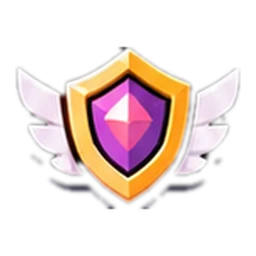
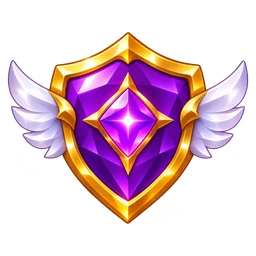
UI 그림 18장(Higgsfield): 아래 메뉴 5(연구소 플라스크·마법서)·업적 메달 4·루비 상품 5·우편 봉투 열림·패스 받침대·승리/패배 배너

diff --git a/src/scenes/MissionScene.ts b/src/scenes/MissionScene.ts
@@ -242,8 +242,15 @@ export class MissionScene extends Phaser.Scene {
       rows.sort((r1, r2) => Number(r1.pr.done) - Number(r2.pr.done) || r2.pr.cur / r2.pr.goal - r1.pr.cur / r1.pr.goal);
       for (const { a, pr } of rows) {
         this.A(plate(this, 360, y, 664, 96, { r: 20, fill: pr.done ? 0x1a1626 : undefined }));
-        this.rewardBox(84, y, { image: 'ui-ruby', emoji: '💎', amount: `${a.rubies}` }, pr.done);
+        // 업적 메달(2026-11-26 Higgsfield): 어려울수록 동 → 은 → 금 → 다이아. 못 이룬 업적은 흐리게. 보상 루비는 제목 오른쪽
+        const medal = `medal-${ACH_MEDAL[a.id] ?? 'bronze'}`;
+        if (this.textures.exists(medal)) this.A(this.add.image(84, y, medal).setDisplaySize(78, 78).setAlpha(pr.done ? 1 : 0.55));
+        else this.rewardBox(84, y, { image: 'ui-ruby', emoji: '💎', amount: `${a.rubies}` }, pr.done);
         this.A(text(this, 140, y - 22, a.text, 19, pr.done ? COLOR.ok : COLOR.text, true, true).setOrigin(0, 0.5));
+        if (this.textures.exists(medal)) {
+          this.A(this.add.image(500, y - 22, 'ui-ruby').setDisplaySize(26, 26).setAlpha(pr.done ? 0.5 : 1));
+          this.A(text(this, 518, y - 22, `${a.rubies}`, 18, pr.done ? COLOR.textDim : COLOR.gold, true, true).setOrigin(0, 0.5));
+        }
         this.A(progressBar(this, 330, y + 18, 380, 16, pr.cur / pr.goal, pr.done ? COLOR.ok : COLOR.violet, `${pr.cur.toLocaleString()} / ${pr.goal.toLocaleString()}`).root);
         // 업적 루비는 달성한 판이 끝날 때 자동 지급(기존 규칙) → 달성하면 체크, 아직이면 이동
         const b = this.keep(button(this, 616, y, 116, 60, pr.done ? '✔' : '이동', () => this.scene.start('lobby'), { kind: pr.done ? 'secondary' : 'cta', size: TYPE.caption }));
@@ -401,6 +408,8 @@ export class MissionScene extends Phaser.Scene {
 }
 
 type Tab = 'progress' | 'daily' | 'missions' | 'achievements' | 'attendance';
+/** 업적별 메달 등급(2026-11-26 AI 1차안: 첫 판 동 · 첫 엘리트·수집 은 · 1,000마리 금 · 10,000마리 다이아) */
+const ACH_MEDAL: Record<string, 'bronze' | 'silver' | 'gold' | 'diamond'> = { 'first-run': 'bronze', 'first-elite': 'silver', 'collector-3': 'silver', 'kills-1000': 'gold', 'kills-10000': 'diamond' };
 type Only = 'mission' | 'progress' | 'achievements' | 'attendance';
 const ONLY_TITLE: Record<Only, string> = { mission: '미션', progress: '진행도', achievements: '업적', attendance: '출석' };
 

diff --git a/src/ui/art.ts b/src/ui/art.ts
@@ -169,6 +169,14 @@ export const ART_FILES: Record<string, string> = {
   // 13차분(v1.2 마지막 묶음, scripts/process_art_batch13.py): 어려움 배지·최초 클리어 카드 테두리·20단계 왕관·폭죽·보스 2마리 막대 틀
   ...Object.fromEntries(['badge-hard', 'frame-hard', 'hard-clear-crown', 'fx-confetti', 'ui-boss-bar'].map((k) => [k, `hard/${k}.webp`])),
   ...Object.fromEntries(['s', 'm', 'l'].map((k) => [`gold-pack-${k}`, `shop/gold-pack-${k}.webp`])),
+  // UI 묶음(2026-11-26 Higgsfield, scripts/process_art_uiset.py): 루비 상품 5 · 연구소 메뉴 아이콘 · 업적 메달 4 · 우편 봉투 · 패스 받침대 · 결과 배너 2
+  ...Object.fromEntries([1, 2, 3, 4, 5].map((k) => [`ruby-pack-${k}`, `shop/ruby-pack-${k}.webp`])),
+  'ic-lab': 'ui/ic-lab.webp',
+  ...Object.fromEntries(['bronze', 'silver', 'gold', 'diamond'].map((k) => [`medal-${k}`, `ui/medal-${k}.webp`])),
+  'mail-open': 'ui/mail-open.webp',
+  'pass-pedestal': 'ui/pass-pedestal.webp',
+  'res-victory': 'ui/res-victory.webp',
+  'res-defeat': 'ui/res-defeat.webp',
   ...Object.fromEntries(['dragon', 'gear', 'rune', 'mega'].map((k) => [`pkg-${k}`, `shop/pkg-${k}.webp`])), // 패키지 그림(16차분)
   ...Object.fromEntries(['free', 'premium', 'royal'].map((k) => [`pass-${k}`, `pass/pass-${k}.webp`])), // 드래곤 패스 상자(17차분)
   // 19차분(2026-11-24, 그림 요청서 7 ②, scripts/process_art_batch19.py): 신규 9종 기본 공격 탄·고리·베기 256px — dragonArt.applyProjectileArt가 bolt-* 로 바꿔 씀

diff --git a/src/scenes/ShopScene.ts b/src/scenes/ShopScene.ts
@@ -214,10 +214,14 @@ export class ShopScene extends Phaser.Scene {
       const x = 360 + (col - (perRow - 1) / 2) * 230;
       const cy = y0 + 160 + row * 250;
       const card = plate(this, x, cy, 216, 236, { r: 22, fill: i >= 3 ? 0x3a2370 : 0x2b2442, gold: i === RUBY_PRODUCTS.length - 1 });
-      const n = Math.min(5, 1 + i);
-      for (let k = 0; k < n; k++) {
-        const a = n === 1 ? 0 : (k / (n - 1) - 0.5) * 1.2;
-        card.add(this.add.image(Math.sin(a) * 44, -52 + Math.abs(a) * 14, 'ui-ruby').setDisplaySize(62 - n * 3, 62 - n * 3));
+      const pack = `ruby-pack-${Math.min(5, i + 1)}`; // 2026-11-26: 양에 따라 몇 알 → 주머니 → 더미 → 그릇 → 보물 상자
+      if (this.textures.exists(pack)) card.add(this.add.image(0, -56, pack).setDisplaySize(118, 118));
+      else {
+        const n = Math.min(5, 1 + i);
+        for (let k = 0; k < n; k++) {
+          const a = n === 1 ? 0 : (k / (n - 1) - 0.5) * 1.2;
+          card.add(this.add.image(Math.sin(a) * 44, -52 + Math.abs(a) * 14, 'ui-ruby').setDisplaySize(62 - n * 3, 62 - n * 3));
+        }
       }
       card.add(text(this, 0, 14, (def.rubies + def.bonus).toLocaleString(), TYPE.heading, COLOR.text, true, true).setOrigin(0.5));
       card.add(text(this, 0, 46, def.bonus ? `보너스 +${def.bonus.toLocaleString()}` : '루비', TYPE.tiny, def.bonus ? COLOR.gold : COLOR.textSub, true, true).setOrigin(0.5));

diff --git a/src/scenes/GiftScene.ts b/src/scenes/GiftScene.ts
@@ -134,6 +134,7 @@ export class GiftScene extends Phaser.Scene {
       toast(this, `${tag(r.gift.kind)}${L.name} ${r.gift.amount.toLocaleString()}${L.unit} 받았어요`, COLOR.ok);
     }
     this.render();
+    if (r.ok) this.mailPop();
   }
 
   private claimAll(): void {
@@ -150,6 +151,17 @@ export class GiftScene extends Phaser.Scene {
     const keptLines = r.kept.map((k) => `${tag(k.gift.kind)}${k.gift.amount}${GIFT_LABEL[k.gift.kind].unit} — ${CLAIM_FAIL_TEXT[k.reason]}`);
     this.render();
     this.showSummary(r.claimed.length, lines, keptLines);
+    if (r.claimed.length) this.mailPop();
+  }
+
+  /** 받기 연출(2026-11-26 Higgsfield): 봉인이 깨진 봉투에서 빛나는 편지가 떠오르는 그림이 톡 튀어 올랐다 사라짐 */
+  private mailPop(): void {
+    if (!this.textures.exists('mail-open')) return;
+    const im = this.add.image(360, 560, 'mail-open').setDepth(1000).setDisplaySize(240, 240).setAlpha(0);
+    const s0 = im.scale;
+    im.setScale(s0 * 0.4);
+    this.tweens.add({ targets: im, scale: s0, alpha: 1, y: 520, duration: 260, ease: 'Back.Out' });
+    this.tweens.add({ targets: im, alpha: 0, y: 470, delay: 750, duration: 350, onComplete: () => im.destroy() });
   }
 
   private showSummary(n: number, lines: string[], kept: string[]): void {

diff --git a/src/scenes/GameScene.ts b/src/scenes/GameScene.ts
@@ -2392,7 +2392,14 @@ export class GameScene extends Phaser.Scene {
     const T = (x: number, y: number, str: string, size: number, color: number = COLOR.text, ox = 0.5) => add(ktext(this, x, y, str, size, color, true, true).setOrigin(ox, 0.5));
     add(this.add.rectangle(360, 640, 720, fullH(this), 0x000000, 0.82));
     const titleTxt = clear ? '성지 탈환!' : reason === 'timeout' ? '시간 초과' : reason === 'quit' ? '전투 포기' : '드래곤이 쓰러졌다';
-    const rb = ribbon(this, 360, 160, 440, titleTxt, clear ? 0xe0a032 : COLOR.danger, 84);
+    // 승리·패배 배너 그림(2026-11-26 Higgsfield) 위에 제목 글자. 그림이 없으면 예전 리본
+    const resKey = clear ? 'res-victory' : 'res-defeat';
+    let rb: Phaser.GameObjects.Container;
+    if (this.textures.exists(resKey)) {
+      const im = this.add.image(0, 0, resKey);
+      im.setScale(470 / im.width);
+      rb = this.add.container(360, 124, [im, ktext(this, 0, clear ? 28 : 11, titleTxt, 34, clear ? 0x4a2a00 : 0xffe0d0, true, true).setOrigin(0.5)]);
+    } else rb = ribbon(this, 360, 160, 440, titleTxt, clear ? 0xe0a032 : COLOR.danger, 84);
     add(rb);
     rb.setScale(0.6).setAlpha(0);
     this.tweens.add({ targets: rb, scale: 1, alpha: 1, duration: 220, ease: 'Back.Out' });

diff --git a/src/scenes/PassScene.ts b/src/scenes/PassScene.ts
@@ -158,6 +158,12 @@ export class PassScene extends Phaser.Scene {
     const H = CELL_H;
     const box = plate(this, c.x, y, c.w, H, { r: 16, fill: c.fill, gold: st === 'ready' });
     const ix = -c.w / 2 + 40;
+    // 보상 받침대(2026-11-26 Higgsfield): 아이콘이 받침대 위에 놓인 모습, 받을 수 있는 칸은 받침대 빛이 숨 쉼
+    if (this.textures.exists('pass-pedestal')) {
+      const ped = this.add.image(ix, 20, 'pass-pedestal').setDisplaySize(78, 78);
+      box.add(ped);
+      if (st === 'ready') this.tweens.add({ targets: ped, alpha: 0.6, duration: 600, yoyo: true, repeat: -1 });
+    }
     if (it.kind === 'redFrag') box.add(this.add.image(ix, -6, 'portrait-red').setDisplaySize(64, 64));
     else if (this.textures.exists(PASS_ITEM_ICON[it.kind])) box.add(this.add.image(ix, -6, PASS_ITEM_ICON[it.kind]).setDisplaySize(60, 60));
     const tx = ix + 38;

diff --git a/src/ui/artMemory.ts b/src/ui/artMemory.ts
@@ -9,7 +9,7 @@ import { ART_FILES, LAZY_ART } from './art';
  * 돌아가면 저절로 다시 올라온다(브라우저 캐시라 빠름).
  * 내리는 것은 ART_FILES에 있는 실제 그림 파일만 — 도형으로 만든 대체 그림은 건드리지 않는다.
  */
-const BATTLE_UNUSED = /^(scrbg-|att-|lobby-bg|title-deco|skin-board-bg|chest-|sigil-|portrait-|equip-|pass-|event-|pkg-|logo-|skin-icon-)/;
+const BATTLE_UNUSED = /^(scrbg-|att-|medal-|ruby-pack-|mail-open|lobby-bg|title-deco|skin-board-bg|chest-|sigil-|portrait-|equip-|pass-|event-|pkg-|logo-|skin-icon-)/;
 
 /** 전투에서 안 쓰는 그림인가(탑다운은 출격 드래곤과 블랙 — 다른 드래곤 필살기 연출이 빌려 씀 — 만 씀) */
 function battleUnused(key: string, dragonId: string): boolean {

diff --git a/src/ui/screen.ts b/src/ui/screen.ts
@@ -45,7 +45,7 @@ export const NAV_TABS = [
   { key: 'dragons', label: '드래곤', icon: 'ic-dragon' },
   { key: 'lobby', label: '전투', icon: 'ic-swords' },
   { key: 'equip', label: '장비', icon: 'ic-shield' }, // 톱니(ic-gear)는 설정과 헷갈려 날개 방패로(2026-11-22)
-  { key: 'lab', label: '연구소', icon: 'ic-upgrade' },
+  { key: 'lab', label: '연구소', icon: 'ic-lab' }, // 2026-11-26 플라스크·마법서(Higgsfield)
 ];
 
 /** 하단 탭 + 빨간 알림 점(지금 있는 탭은 빼고) — 로비와 다른 화면이 같이 쓴다 */

diff --git a/scripts/process_art_uiset.py b/scripts/process_art_uiset.py
@@ -1,0 +1,53 @@
+"""UI 묶음 18장(2026-11-26, Higgsfield GPT Image 2.6, 투명 배경, 루비 아이콘·골드 묶음을 화풍 참고 그림으로).
+art-src/uiset/hf-<키>.png → public/art/<폴더>/<키>.webp
+- 아래 메뉴 5: ic-shop · ic-dragon · ic-swords · ic-shield(같은 키 교체) · ic-lab(새 키, 예전 ic-upgrade 대신) — 256
+- 업적 메달 4: medal-bronze/silver/gold/diamond — 256
+- 루비 상품 5: shop/ruby-pack-1~5 — 256 (몇 알 → 주머니 → 더미 → 그릇 → 보물 상자)
+- 우편 봉투 열림 mail-open · 패스 받침대 pass-pedestal — 256
+- 결과 배너 res-victory · res-defeat — 가로 720 (글자는 코드가 위에 씀)
+원본 경로(art-src/)는 메인 저장소 폴더 — worktree에서 돌릴 때는 ART_SRC 환경변수로 지정."""
+import os
+from pathlib import Path
+from PIL import Image
+
+ROOT = Path(__file__).resolve().parent.parent
+SRC = Path(os.environ.get('ART_SRC', ROOT / 'art-src')) / 'uiset'
+OUT = ROOT / 'public' / 'art'
+
+SQUARE = {
+    'ic-shop': 'ui', 'ic-dragon': 'ui', 'ic-swords': 'ui', 'ic-shield': 'ui', 'ic-lab': 'ui',
+    'medal-bronze': 'ui', 'medal-silver': 'ui', 'medal-gold': 'ui', 'medal-diamond': 'ui',
+    'ruby-pack-1': 'shop', 'ruby-pack-2': 'shop', 'ruby-pack-3': 'shop', 'ruby-pack-4': 'shop', 'ruby-pack-5': 'shop',
+    'mail-open': 'ui', 'pass-pedestal': 'ui',
+}
+WIDE = {'res-victory': 'ui', 'res-defeat': 'ui'}
+
+
+def crop(im):
+    im = im.convert('RGBA')
+    bbox = im.getchannel('A').point(lambda a: 255 if a > 10 else 0).getbbox()
+    return im.crop(bbox) if bbox else im
+
+
+def square(im, size=256, pad=0.03):
+    im = crop(im)
+    side = int(max(im.size) / (1 - 2 * pad))
+    c = Image.new('RGBA', (side, side), (0, 0, 0, 0))
+    c.alpha_composite(im, ((side - im.width) // 2, (side - im.height) // 2))
+    return c.resize((size, size), Image.LANCZOS)
+
+
+for k, folder in {**SQUARE, **WIDE}.items():
+    p = SRC / f'hf-{k}.png'
+    if not p.exists():
+        print('없음:', p)
+        continue
+    im = Image.open(p)
+    if k in WIDE:
+        im = crop(im)
+        im = im.resize((720, round(im.height * 720 / im.width)), Image.LANCZOS)
+    else:
+        im = square(im)
+    out = OUT / folder / f'{k}.webp'
+    im.save(out, 'WEBP', quality=88, method=6)
+    print(f'{folder}/{k}.webp', im.size, f'{out.stat().st_size // 1024}KB')

diff --git a/docs/AI_LOG.md b/docs/AI_LOG.md
@@ -953,3 +953,9 @@
 **AI에게 맡긴 것**: 쓰는 소리 67개가 모두 파일로 있는 것 확인 → 소리가 아예 없던 순간을 찾음(엘리트·보스 경고, 보스 등장, 클리어, 패배, 출격, 망토 펼침, 강화 성공) → Mirelo 텍스트→효과음으로 7개 생성(5.25크레딧), 브라우저에서 파형을 읽어 길이·크기를 재고 fileVol로 크기를 맞춤. 겨울 룰렛·출석 7일 소리 연결. `docs/SOUND.md`.
 **확인**: 타입 검사, 테스트, 이 작업 전용 탭에서 전투에 7개 중 전투용 6개가 읽히고 오류 0, 로비를 거치면 강화 소리도 읽힘. **소리를 직접 들어 본 것은 아님(AI는 들을 수 없음) — 제작자 청취 확인 필요.**
 **AI 실수**: 없음.
+
+## UI 그림 묶음 18장: 아래 메뉴 · 업적 메달 · 루비 상품 · 우편 봉투 · 패스 받침대 · 결과 배너 (2026-11-26, Higgsfield)
+**내가 판단한 것**: AI가 제안한 것 전부 우리 게임에 맞게 바꾸기(아래 메뉴 5개 화풍 통일·연구소 아이콘, 업적 메달, 재화 더미, 우편 봉투·패스 받침대, 승리·패배 배너).
+**AI에게 맡긴 것**: 18장 기획·생성(루비 아이콘·골드 묶음을 화풍 참고 그림으로) — 메뉴 상점·드래곤·전투·장비는 같은 키로 교체, 연구소는 새 키 `ic-lab`(플라스크·마법서). 업적 메달 4등급과 업적별 등급(AI 1차안: 첫 판 동 · 첫 엘리트·수집 은 · 1,000마리 금 · 10,000마리 다이아), 루비 상품 5단계(몇 알 → 주머니 → 그릇 → 상자 → 보물 상자), 우편 받기 때 봉투 열림 그림, 패스 칸 아이콘 받침대(받을 수 있으면 빛이 숨 쉼), 결과 화면 배너 그림 위에 제목. 가공 `scripts/process_art_uiset.py`, 전투에서 안 쓰는 그림은 내림.
+**확인**: 타입 검사, 테스트, 이 작업 전용 탭에서 업적·상점 루비·패스·선물함·클리어/실패 결과 화면 캡처, 오류 0.
+**AI 실수**: 가장 작은 루비 상품이 상자로 나와(요청과 다름) 한 장만 "루비 몇 알"로 다시 만들고 순서를 다시 맞춤. 결과 배너 첫 위치는 위가 잘려 내림.
